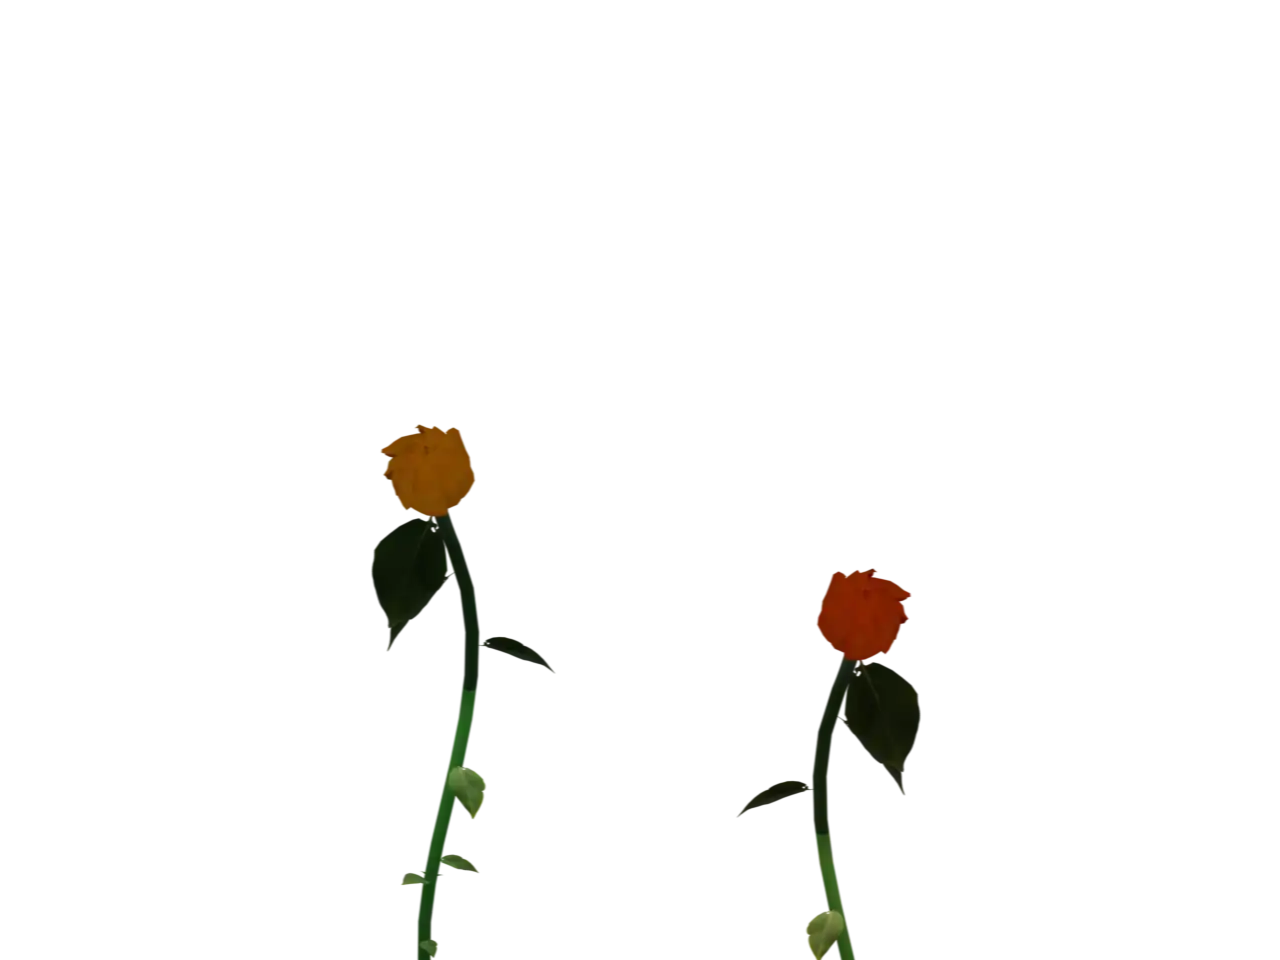
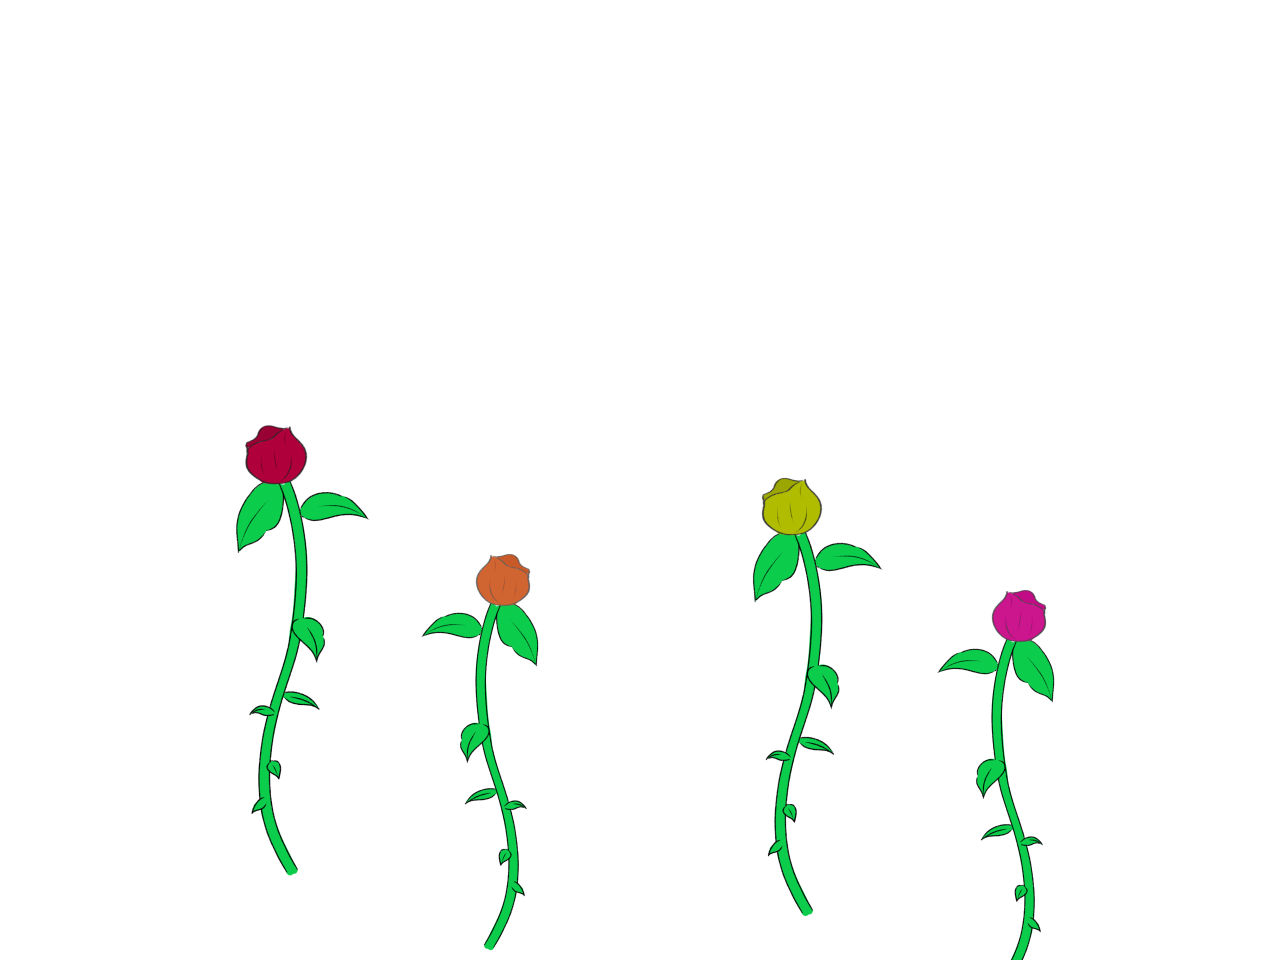
Adding in stylisation to design
I was comfortable with the code working smoothly so decided I would work on how it actually looked now.

I wanted to use a flat illustrative style as I wanted to take on a more hands on approach to creation.

I took my blender renders of the flowers and drew them by hand digitally frame by frame in krita and then comped all 4 of them together in after effects. I then rendered them back out into an image sequence. Comping them together ahead of time, meant I could just have one section of code instead of 4, saving processing power to achieve the same result.

I also added in a background.

Changed region(s): [[0.1875, 0.4375, 0.4375, 1.0], [0.5625, 0.5, 0.8438, 1.0]]

diff --git a/1Draw_hands.js b/1Draw_hands.js
@@ -14,7 +14,9 @@ function prepareInteraction() {
 
 function drawInteraction(faces, hands) {
 
-  background(0);//test bg
+  let bgClr = color(95,215,255); //blue
+  
+  background(bgClr);//test bg
 
   // hands part
   // for loop to capture if there is more than one hand on the screen. This applies the same process to all hands.
@@ -37,26 +39,28 @@ function drawInteraction(faces, hands) {
    
     let distance = dist(wristX, wristY, middleFingerTipX, middleFingerTipY); //how to calculate whether fist or open using distance between wrist and middle finger
     
-    if (previousDistance === 0) { //
-      previousDistance = distance;
+    if (previousDistance === 0) { //a way to make it so that the first frame that is shown is always the position that your hand is at, rather than starting from somewhere else and rapidly jolting to that position, this makes it smoother but also makes it feel more interactive
+      previousDistance = distance; // starts previous distance at whatever the distance between the wrist and middle finger is, essentially what your hand position is
     }
-    let smoothedDistance = lerp(previousDistance, distance, 0.3); //making the animation smoother
-    previousDistance = smoothedDistance;
+    
+    let smoothedDistance = lerp(previousDistance, distance, 0.3); //making the animation smoother by essentially taking a point in between the previous distance and new distance of the points on the hand, this ensures that the frame that is displayed is close enough to the previous one that is doesn't get jumpy, this is repeated for the next frame etc so it always goes forwards or backwards in frames but it does it slower than realtime movement. the 0.3 value makes it slower to transition to the next as it keeps the point closer to the previous distance than the new distance.
+    previousDistance = smoothedDistance; //setting the previous distance as this new inbetween value for smooth
     
   
     
-    let minDistance = 100;  //fist 
+    let minDistance = 100;  //fist motif with the hand
     let maxDistance = 300; // palm open
     
-    let frameNum = map(smoothedDistance, minDistance, maxDistance, 1, 24); //mapping frame number to distance
+    let frameNum = map(smoothedDistance, minDistance, maxDistance, 1, 24); //mapping frame number to distance using smoothed value to keep smooth animation
     
     frameNum = constrain(frameNum, 1, 24); // Keep it inside number of frames for later if neccessary
-    frameNum = round(frameNum); // Make it an integer
+    frameNum = round(frameNum); // Make it an integer, ensures that it always plays a frame as the frames are number 1 through 24
     
     
-    if (frameImages[frameNum]) {// imaging flower
+    if (frameImages[frameNum]) {// imaging flowers frame
+     
       push();
-      image(frameImages[frameNum], 0, 0, width, height);
+      image(frameImages[frameNum], 0, 0, width, height); //imaging
       pop();
     }
 
